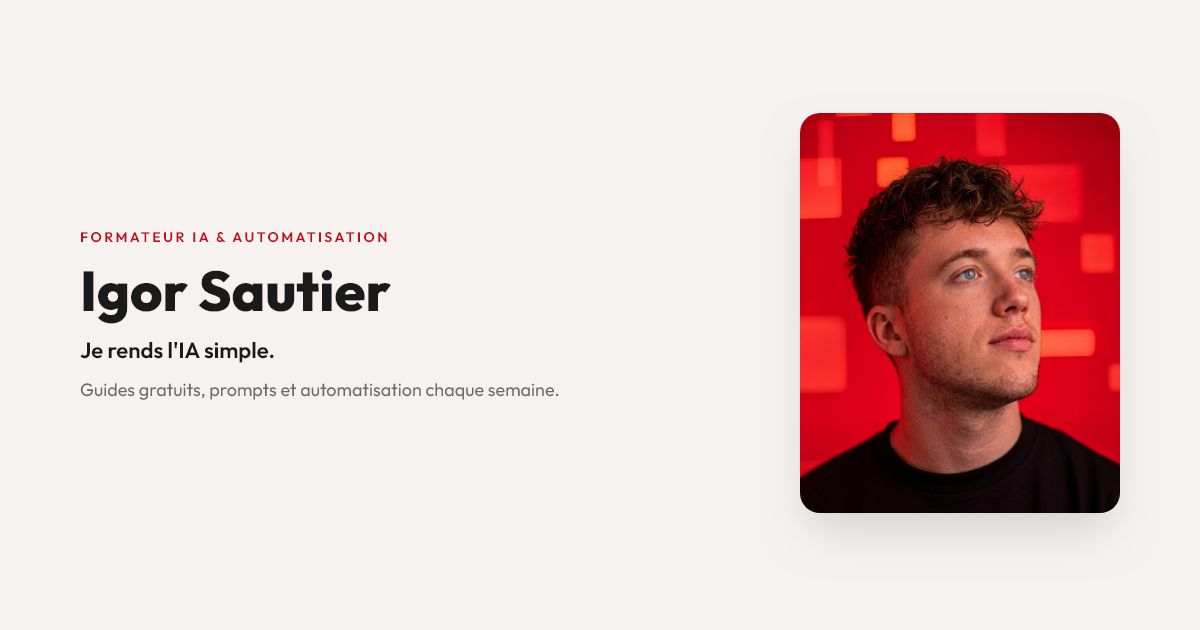
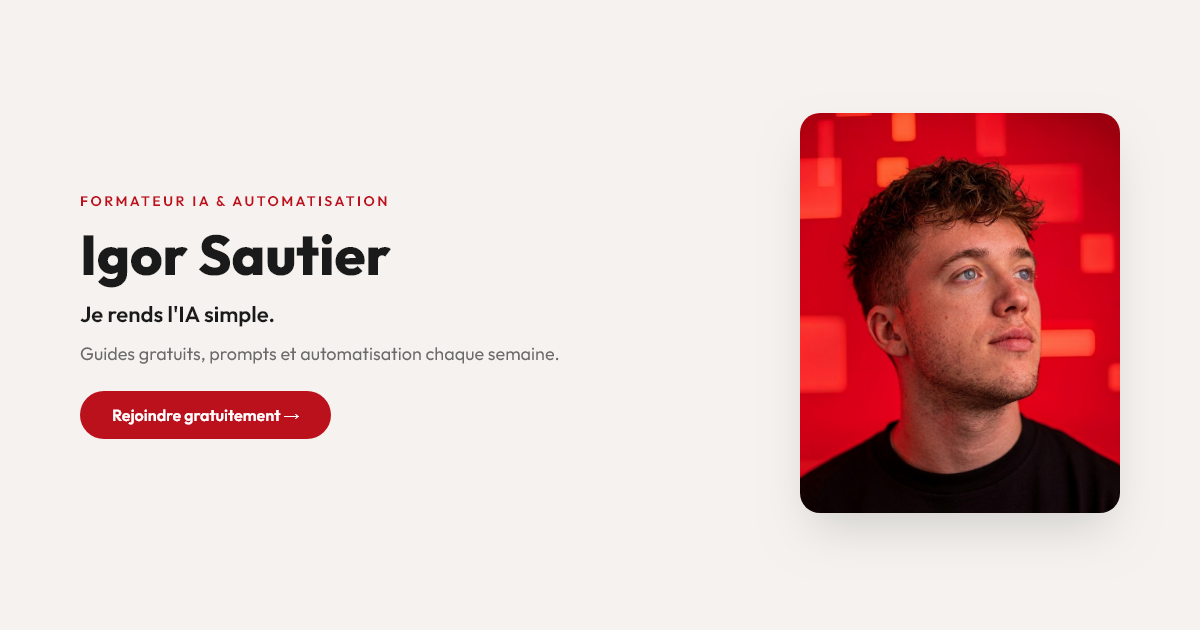
Fix OG meta: longer description, site_name, image alt, CTA on OG image

diff --git a/index.html b/index.html
@@ -4,15 +4,17 @@
     <meta charset="UTF-8">
     <meta name="viewport" content="width=device-width, initial-scale=1.0">
     <title>Igor Sautier | Formateur IA & Automatisation</title>
-    <meta name="description" content="Je t'aide &agrave; comprendre et utiliser l'IA dans ton business. Guides gratuits, prompts, automatisations.">
+    <meta name="description" content="Igor Sautier, formateur IA et automatisation. Je t'aide &agrave; comprendre et utiliser l'intelligence artificielle dans ton business. Guides gratuits, prompts pr&ecirc;ts &agrave; l'emploi et astuces automatisation chaque semaine.">
     <meta property="og:title" content="Igor Sautier | Formateur IA &amp; Automatisation">
-    <meta property="og:description" content="Je rends l'IA simple. Guides gratuits, prompts et automatisation chaque semaine.">
+    <meta property="og:description" content="Je rends l'IA simple. Guides gratuits, prompts et automatisation chaque semaine. Rejoins + de 25K abonn&eacute;s.">
     <meta property="og:image" content="https://nevios.fr/og-image.png">
+    <meta property="og:image:alt" content="Igor Sautier, formateur IA et automatisation">
     <meta property="og:url" content="https://nevios.fr">
     <meta property="og:type" content="website">
+    <meta property="og:site_name" content="Igor Sautier">
     <meta name="twitter:card" content="summary_large_image">
     <meta name="twitter:title" content="Igor Sautier | Formateur IA &amp; Automatisation">
-    <meta name="twitter:description" content="Je rends l'IA simple. Guides gratuits, prompts et automatisation chaque semaine.">
+    <meta name="twitter:description" content="Je rends l'IA simple. Guides gratuits, prompts et automatisation chaque semaine. Rejoins + de 25K abonn&eacute;s.">
     <meta name="twitter:image" content="https://nevios.fr/og-image.png">
     <link rel="preconnect" href="https://fonts.googleapis.com">
     <link rel="preconnect" href="https://fonts.gstatic.com" crossorigin>
